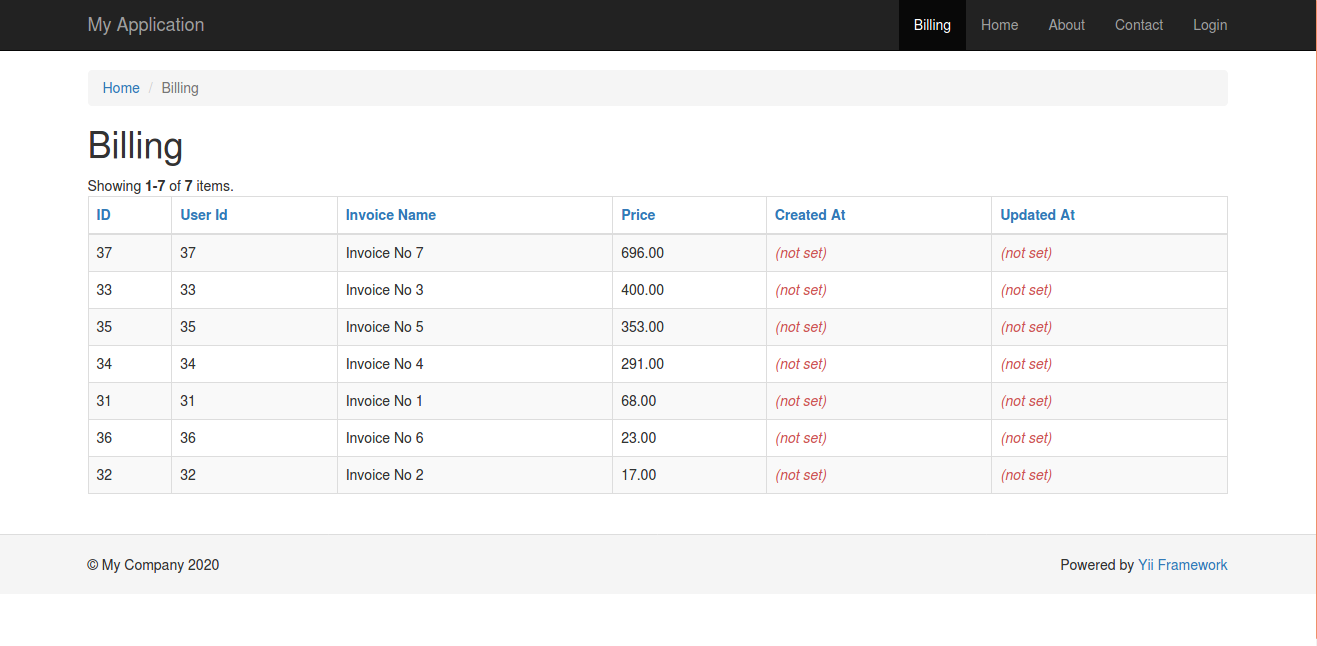
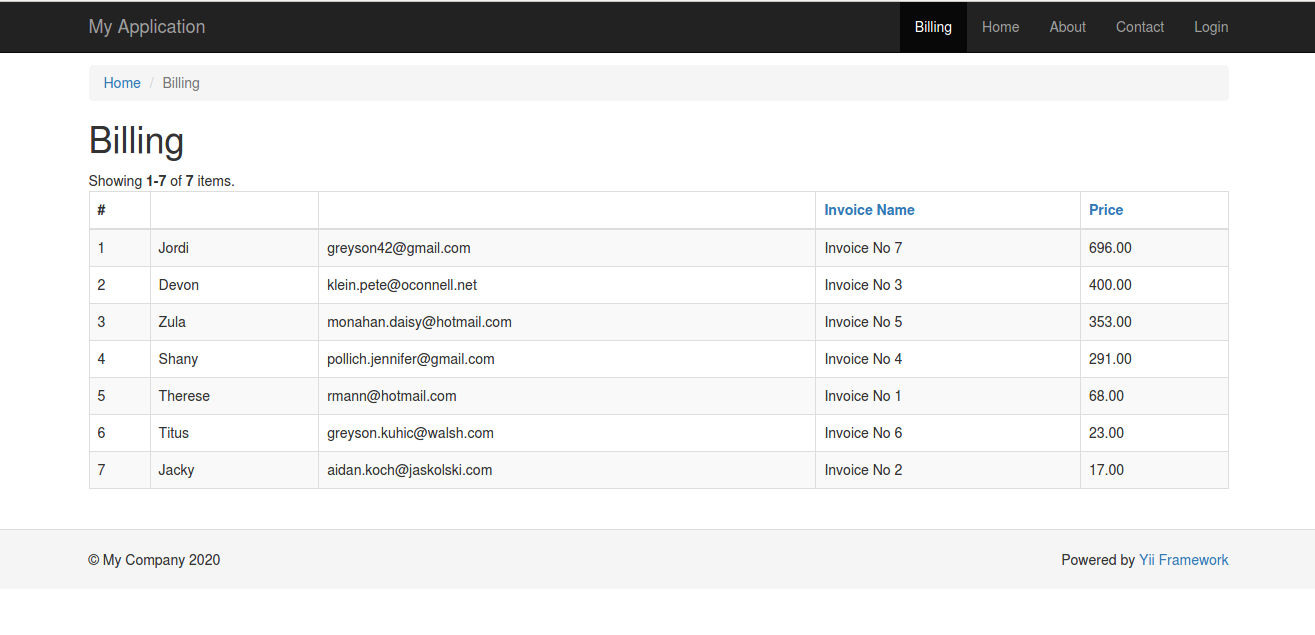
view update

diff --git a/views/billing/index.php b/views/billing/index.php
@@ -12,6 +12,24 @@ $this->params['breadcrumbs'][] = $this->title;
     <?= GridView::widget(
     [
         'dataProvider' => $dataProvider,
+        'columns' => [
+            ['class' => 'yii\grid\SerialColumn'],
+            [
+                'class' => 'yii\grid\DataColumn', // can be omitted, as it is the default
+                'value' => function ($data) {
+                    return $data->user->name; // $data['name'] for array data, e.g. using SqlDataProvider.
+                },
+            ],
+            [
+                'class' => 'yii\grid\DataColumn', // can be omitted, as it is the default
+                'value' => function ($data) {
+                    return $data->user->email; // $data['name'] for array data, e.g. using SqlDataProvider.
+                },
+            ],
+            
+            'invoice_name',            
+            'price'
+        ],
     ]
 );?>
 
